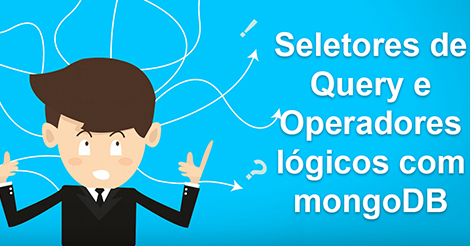
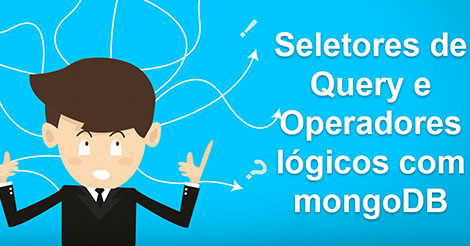
Alterações nas imagens

diff --git a/Gruntfile.js b/Gruntfile.js
@@ -25,7 +25,7 @@ module.exports = function (grunt) {
             },
             jpg: {
                 options: {
-                    progressive: true
+                    optimizationLevel: 7
                 },
                 files: [
                     {
